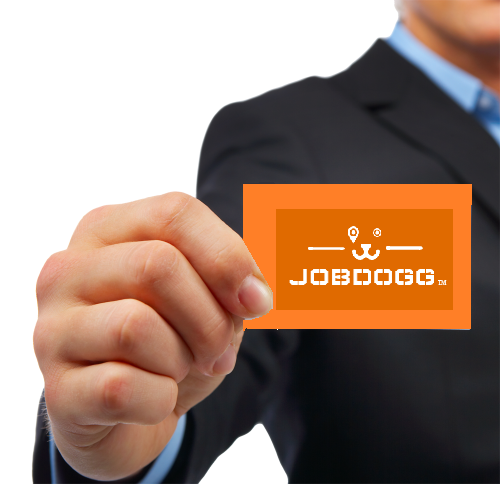
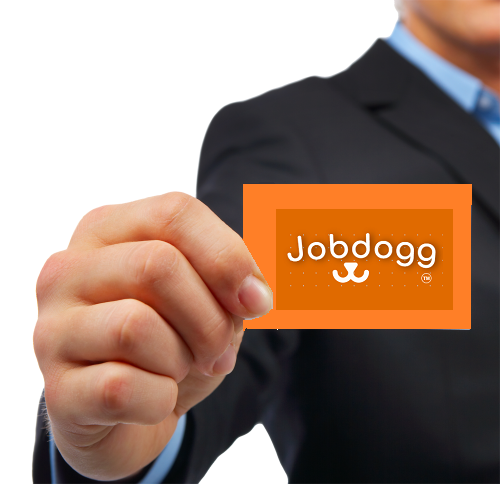
updating _base.html

Changed region(s): [[0.57, 0.4649, 0.9, 0.5888]]

diff --git a/templates/pages/home.html b/templates/pages/home.html
@@ -357,7 +357,7 @@
             </div>
         </section>
         
-        <!--HIRE IN MINUTES--> 
+        <!--HIRE IN MINUTES 3-jobdogg --> 
         <section>    
             <div class="container mt-4">
                 <h4 class="py-2 text-center fontColor-orang">HIRE IN MINUTES </h4>
@@ -454,7 +454,7 @@
             <div class="container px-5">
                 <div class="row gx-5 align-items-center">
                     <div class="col-lg-6 order-lg-2">
-                        <div class="p-5"><img class="img-fluid rounded-circle" width="70%" height="70%" src="{% static 'images/newLookLogo101.png'%}" alt="..."></div>
+                        <div class="p-5"><img class="img-fluid rounded-circle" width="70%" height="70%" src="{% static 'images/3-jobdogg.png'%}" alt="..."></div>
                     </div>
                     <div class="col-lg-6 order-lg-1">
                         <div class="p-5">
@@ -472,7 +472,7 @@
                 <div class="row gx-5 align-items-center">
                     <div class="col-lg-6">
                         <div class=" py-3 px-5">
-                            <img class="img-fluid rounded-circle" width="70%" height="70%" src="{% static 'images/newLookLogo102.png'%}" alt="...">
+                            <img class="img-fluid rounded-circle" width="70%" height="70%" src="{% static 'images/4-jobdogg.png'%}" alt="...">
                         </div>
                     </div>
                     <div class="col-lg-6">

diff --git a/templates/employee/profileBuildingProgress.html b/templates/employee/profileBuildingProgress.html
@@ -299,7 +299,7 @@
                 </div>
                 </div>
                 {% endif %}
-                {% if progres.SkillSetTest_completed %}
+                {% if progres.SkillSetTest_completed or progres.Skipped_completed or progres.OnProgressSkillTest_completed %}
                 <div class="col step-item ">
                 <div class="card border-left-primary shadow h-100 py-2">
                     <div class="card-body">
@@ -930,7 +930,7 @@
                                             Acknowledged the warning, currently skipping the test. Will complete the SkillSet test soon.
                                         </label>
                                     </div>
-                                    <div id="SkillSetTestStart" class="d-none ">
+                                    <div id="skillsTestSkipButton" class="d-none ">
                                         <form action="{% url 'employee:SkipSkillSetTestView' %}" method="POST">
                                             {% csrf_token %}
                                             <button type="submit" class="btn btn-sm btn-outline-warning">Skip</button>
